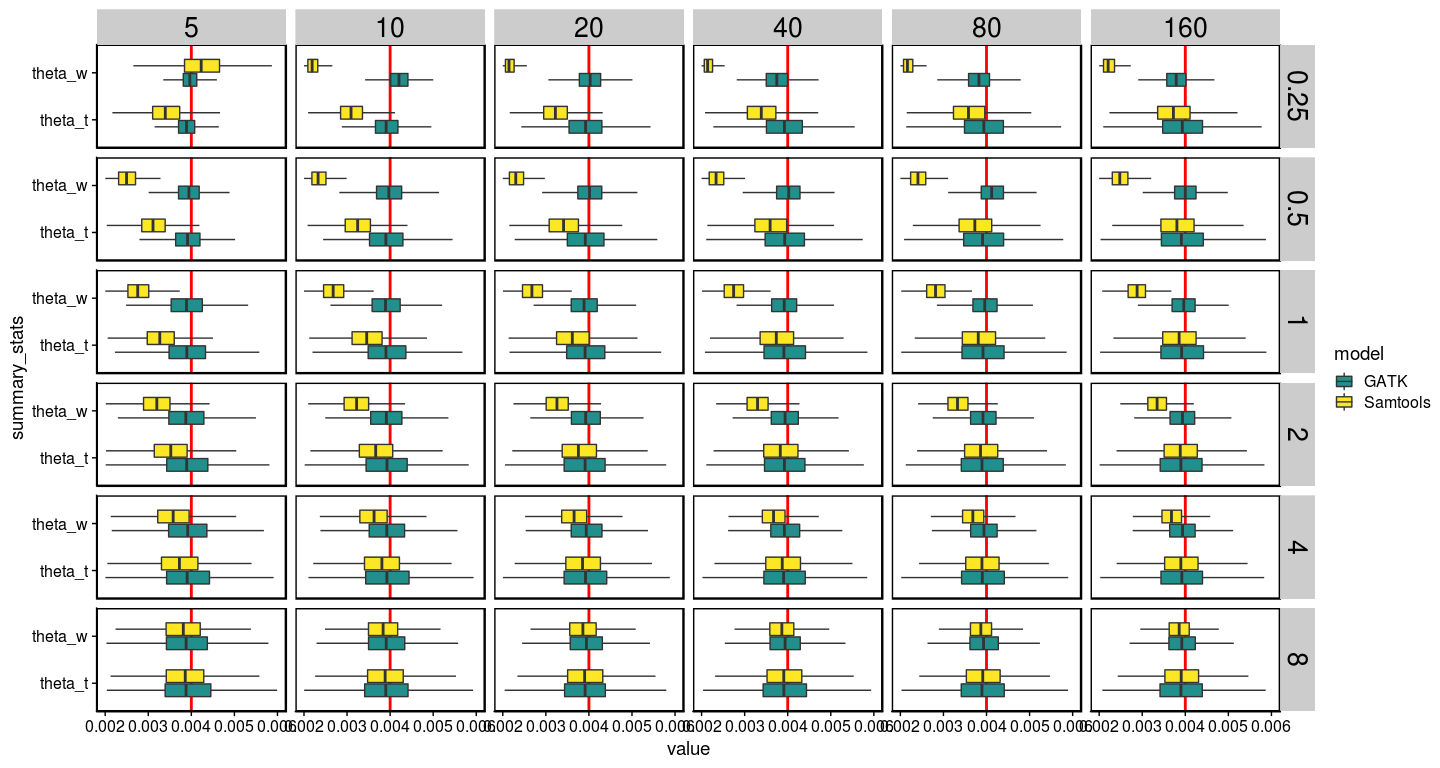
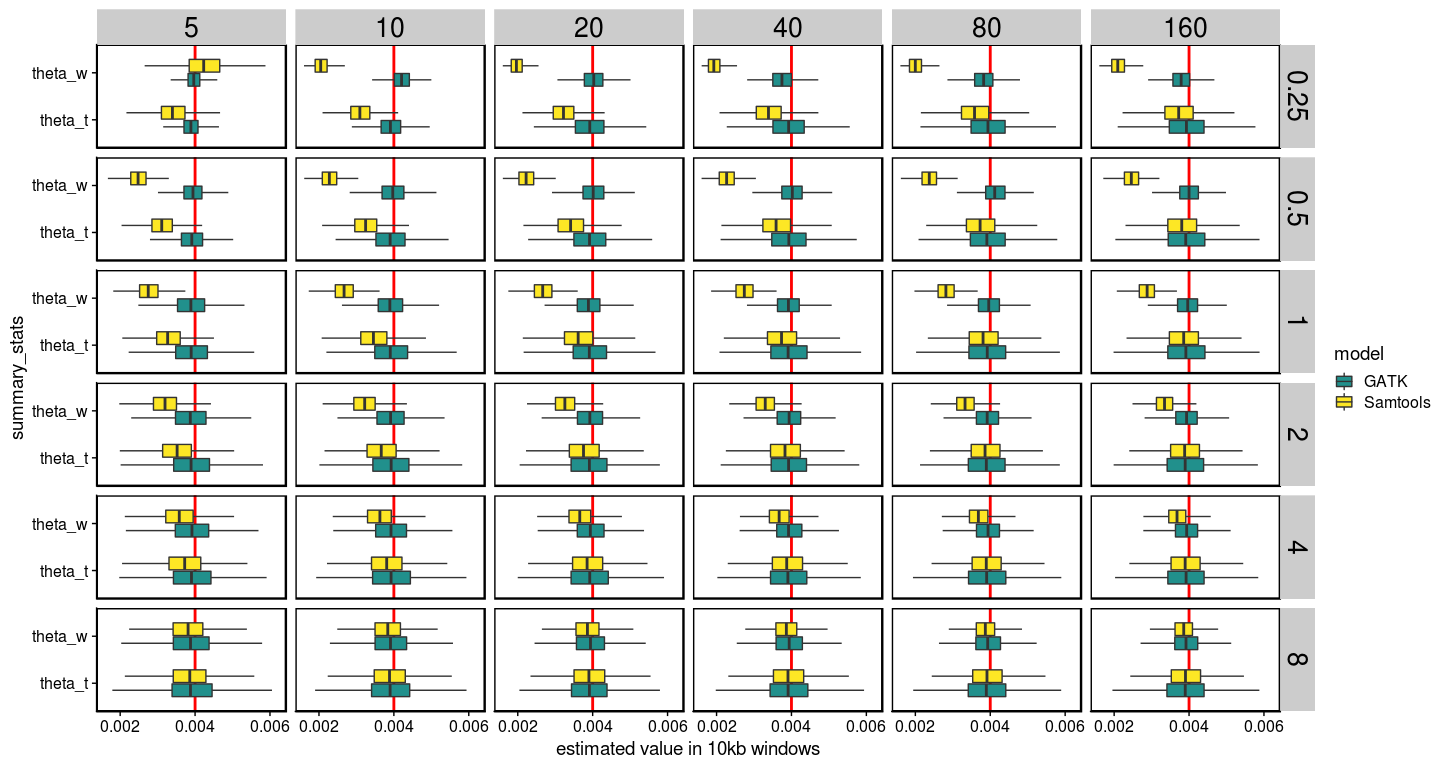
minor updates

diff --git a/markdowns/data_analysis_neutral_gatk.md b/markdowns/data_analysis_neutral_gatk.md
@@ -541,7 +541,8 @@ thetas_combined %>%
   geom_boxplot(outlier.alpha = 0, width=0.6) +
   scale_fill_viridis_d(begin = 0.5) +
   facet_grid(coverage ~ sample_size) +
-  ylim(c(0.002, 0.006)) +
+  scale_y_continuous(breaks=(1:3)/500, limits = c(0.0016, 0.0062)) +
+  ylab("estimated value in 10kb windows") +
   coord_flip() +
   theme_cowplot() +
   theme(strip.text = element_text(size=20),
@@ -549,7 +550,7 @@ thetas_combined %>%
         panel.border = element_rect(colour = "black", fill=NA, size=1)) 
 ```
 
-    ## Warning: Removed 11073 rows containing non-finite values (stat_boxplot).
+    ## Warning: Removed 1322 rows containing non-finite values (stat_boxplot).
 
 ![](data_analysis_neutral_gatk_files/figure-gfm/unnamed-chunk-25-1.png)<!-- -->
 
@@ -559,7 +560,8 @@ thetas_combined %>%
   ggplot(aes(x=summary_stats, y=value, fill=model)) +
   geom_hline(yintercept=0, color = "red", size = 1, linetype=1) +
   geom_boxplot(outlier.alpha = 0, width=0.6) +
-  scale_fill_viridis_d(begin = 0.5) +
+  scale_fill_viridis_d(begin = 0.5) +  
+  ylab("estimated value in 10kb windows") +
   facet_grid(coverage ~ sample_size) +
   coord_flip() +
   theme_cowplot() +
